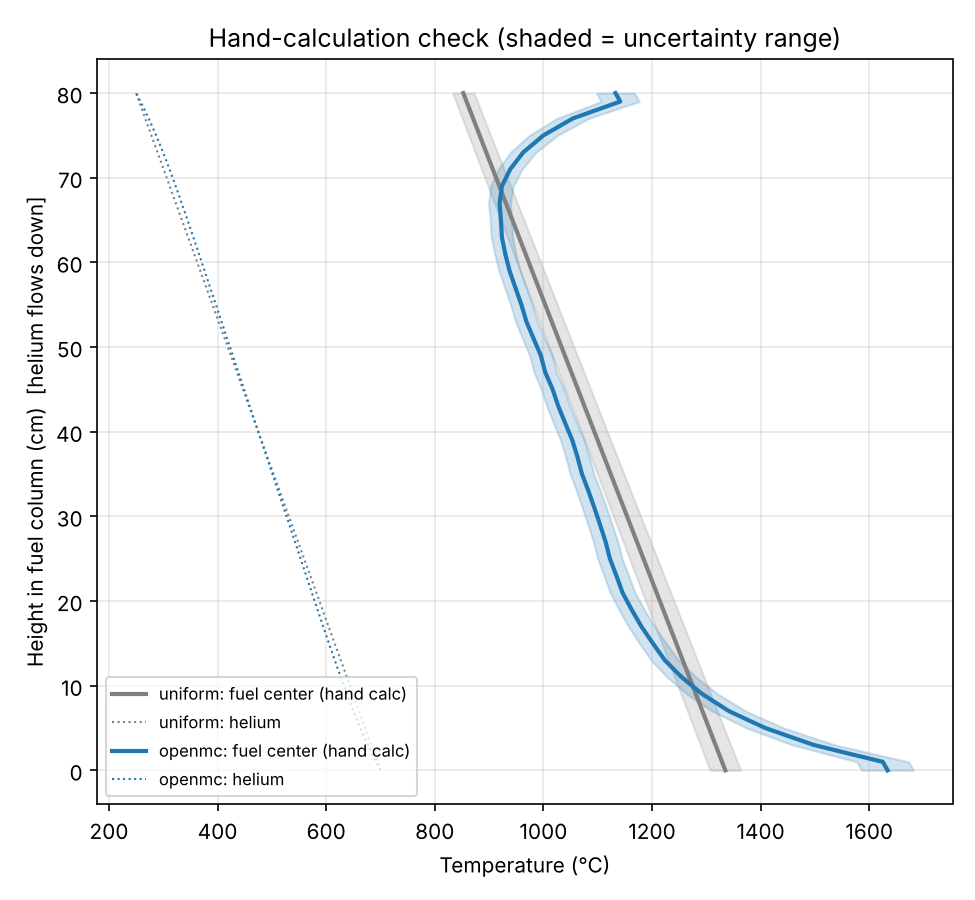
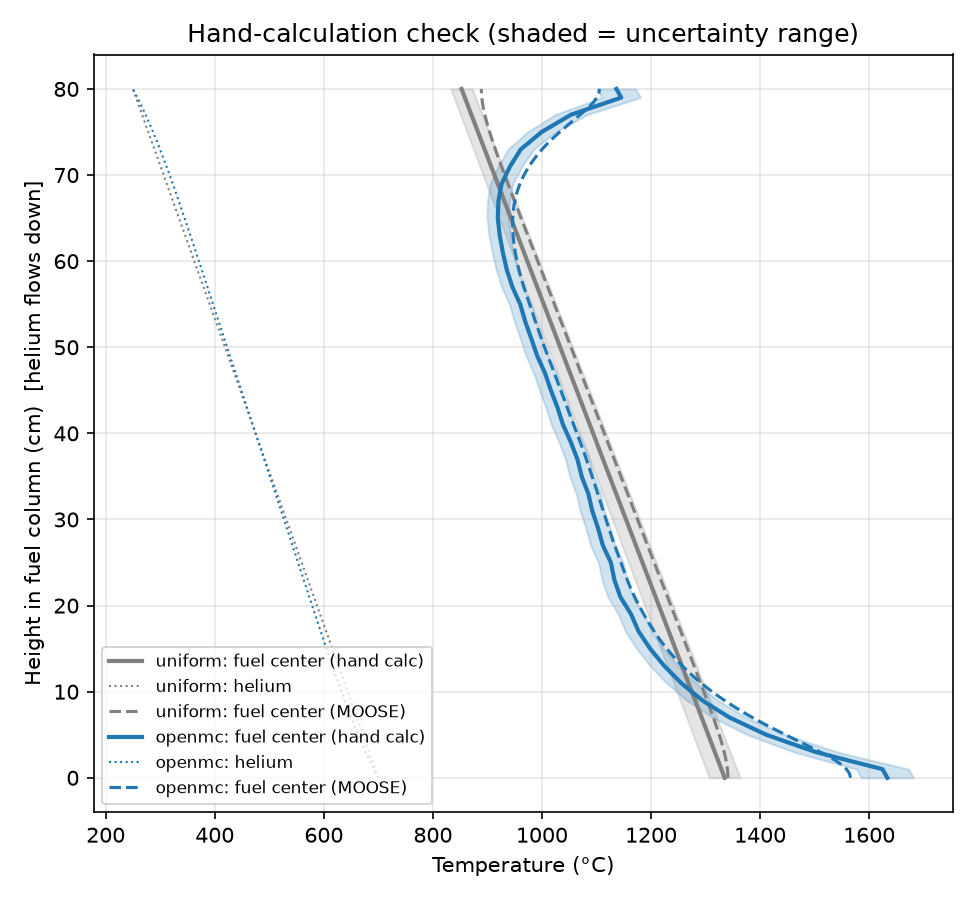
Run both MOOSE cases with fresh OpenMC power; add comparison results
- Re-ran OpenMC (250 batches, k-eff 1.2171 +/- 0.0006) and map_power.py
- Ran case_uniform and case_openmc; added comparison_summary.md and
  case_comparison.png, refreshed hand-calc, power-profile and
  convergence plots
- Force LF line endings on .i/.jou files: MOOSE rejects CRLF inputs
- Ignore MOOSE .jitcache/

diff --git a/post-processing/comparison_summary.md b/post-processing/comparison_summary.md
@@ -1,0 +1,18 @@
+# Case comparison: uniform vs. OpenMC heat source
+
+Generated by `post-processing/compare_cases.py`.
+
+| Quantity | Case A: Uniform | Case B: OpenMC | Difference (B − A) |
+|---|---|---|---|
+| Peak fuel temperature | 1341 °C | 1566 °C | 225 °C |
+| Height of peak fuel temperature | 0 cm | 0 cm | 0 cm |
+| Peak graphite temperature | 1332 °C | 1554 °C | 222 °C |
+| Peak von Mises stress, fuel | 18.3 MPa | 22.0 MPa | 3.7 MPa (+20%) |
+| Peak von Mises stress, graphite | 11.5 MPa | 14.8 MPa | 3.3 MPa (+29%) |
+| Total heat generated | 758.8 W | 758.8 W | -0.0 W (-0%) |
+| Energy balance error (out vs. in) | -4.33 % | -4.34 % | -0.00 % |
+| MOOSE run time | 222.1 s | 78.2 s | -143.9 s (-65%) |
+| OpenMC run time (needed for Case B only) | 0 s | 547 s | 547 s |
+| Total compute time | 222 s | 625 s | 403 s (+181%) |
+
+![Profiles along the fuel column](../images/case_comparison.png)
